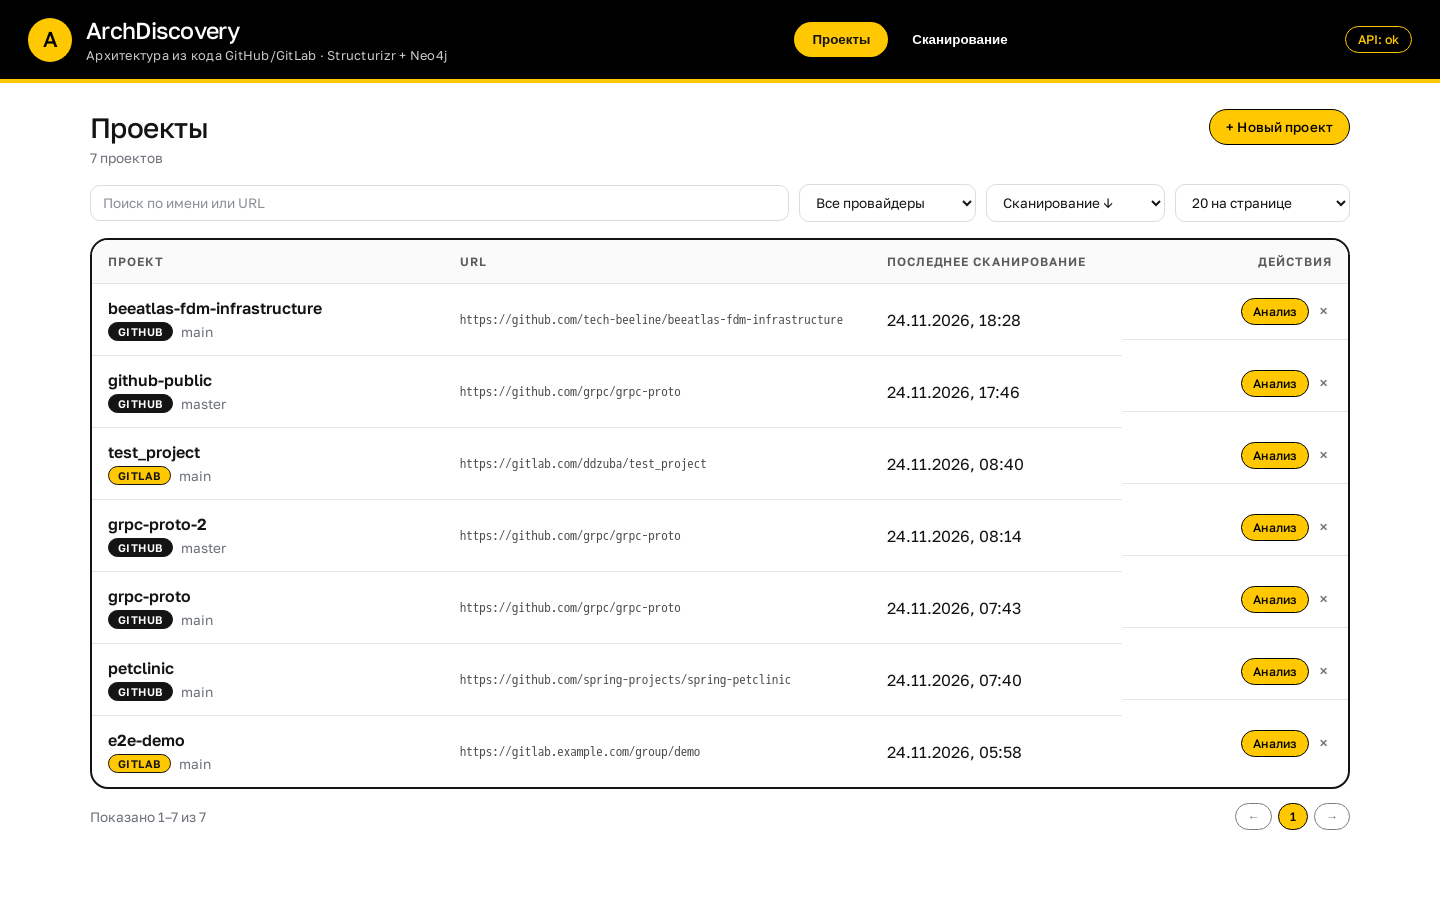
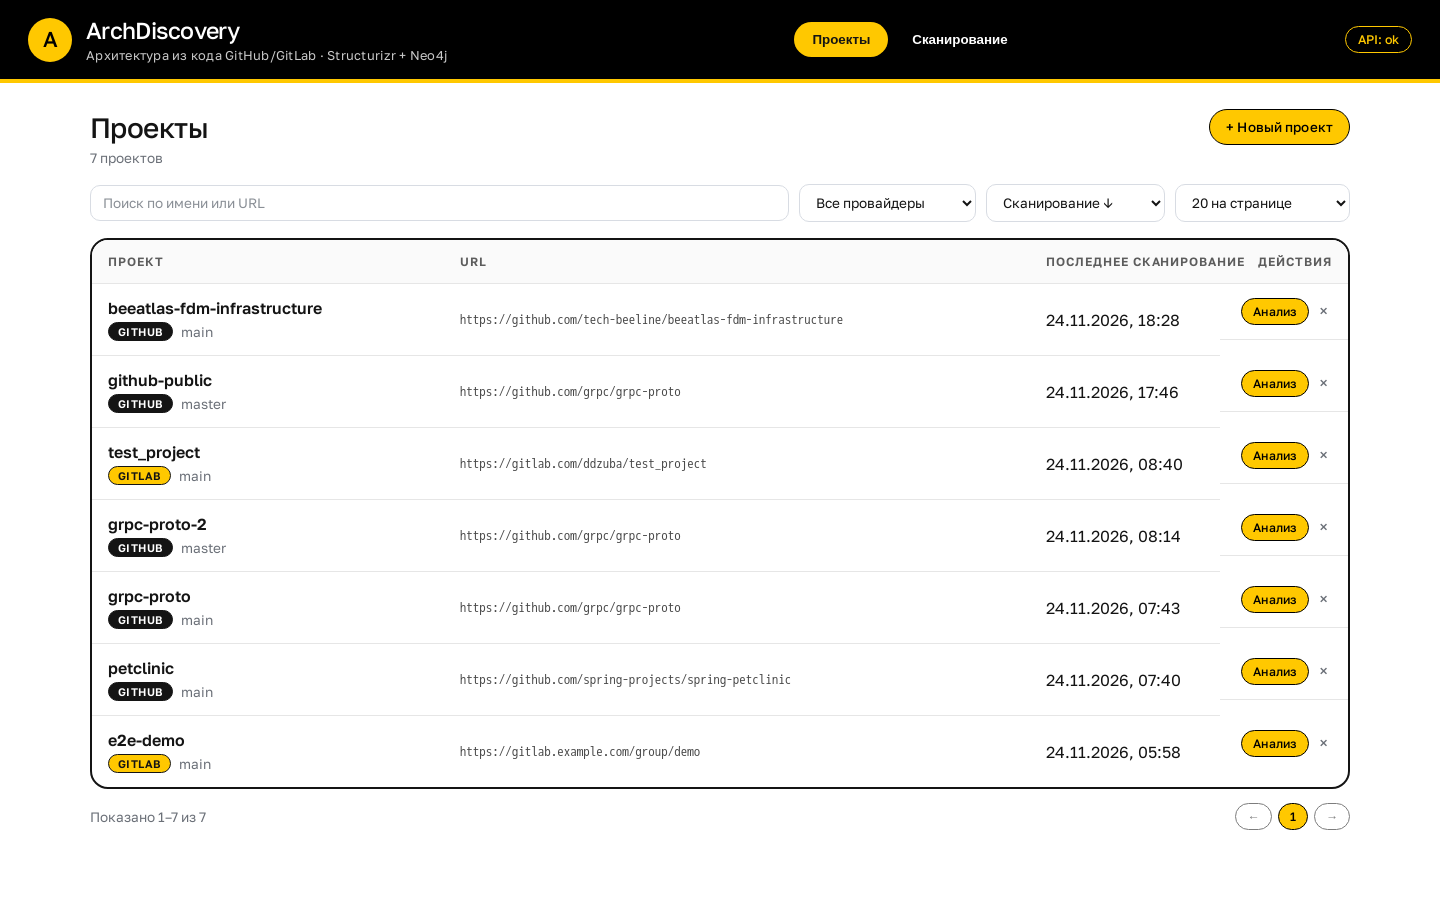
fix(ui): выровнять колонку действий в таблице проектов
- компактная колонка 128px: заголовок и кнопки прижаты вправо
- дата в одну строку (190px), URL занимает оставшееся место
- убран пустой блок справа, из-за которого колонка казалась сдвинутой

diff --git a/web/src/styles.css b/web/src/styles.css
@@ -799,15 +799,15 @@ p {
 }
 
 .col-url {
-  width: 34%;
+  width: auto;
 }
 
 .col-date {
-  width: 20%;
+  width: 190px;
 }
 
 .col-actions {
-  width: 18%;
+  width: 128px;
 }
 
 .projects-table th,
@@ -830,7 +830,8 @@ p {
   border-bottom: none;
 }
 
-.projects-table td:nth-child(3) {
+.projects-table td:nth-child(3),
+.projects-table th:nth-child(3) {
   white-space: nowrap;
 }
 
